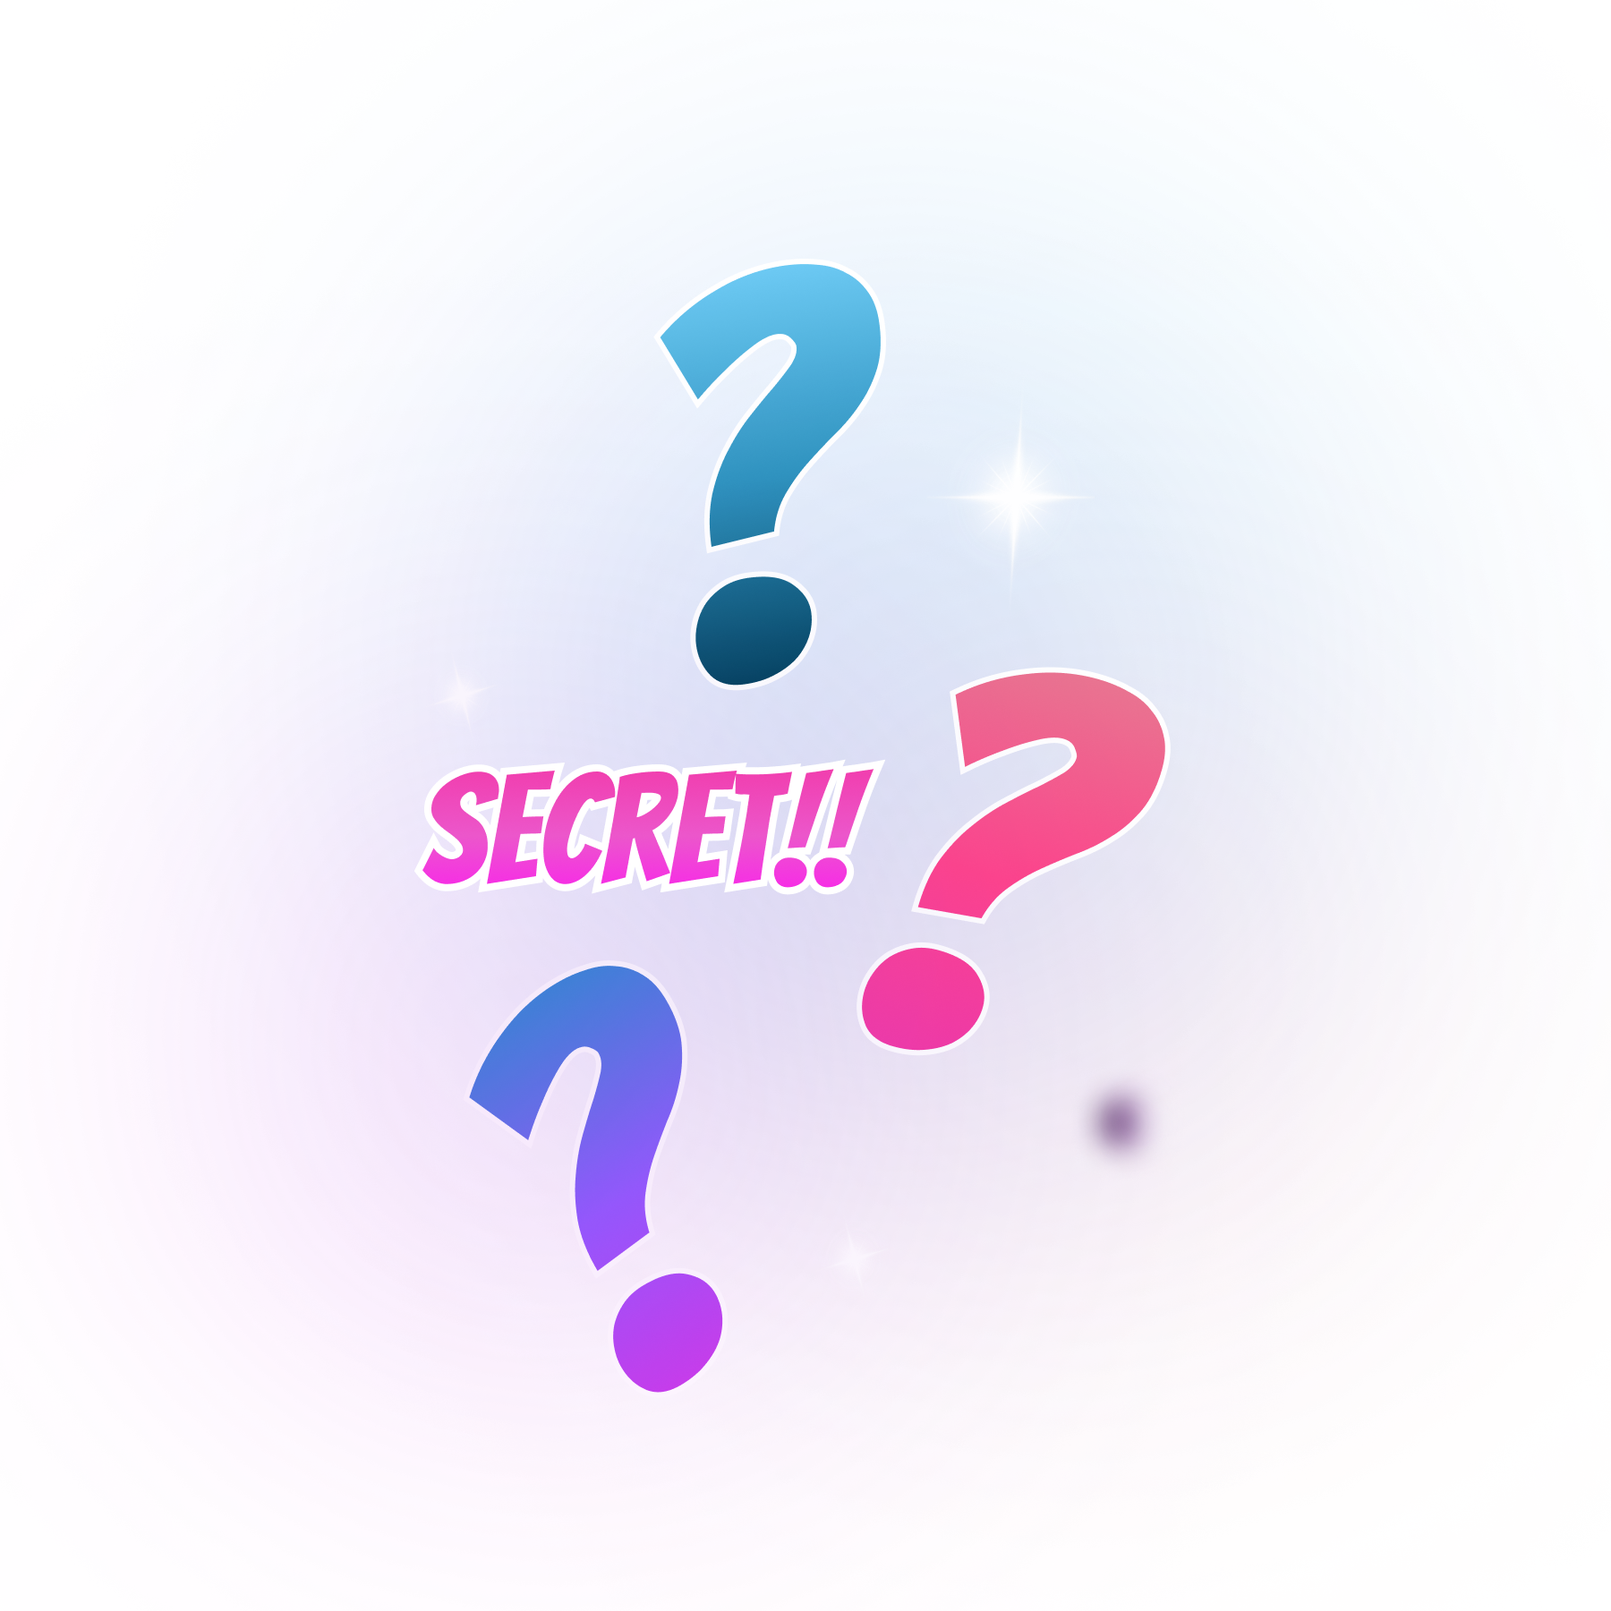
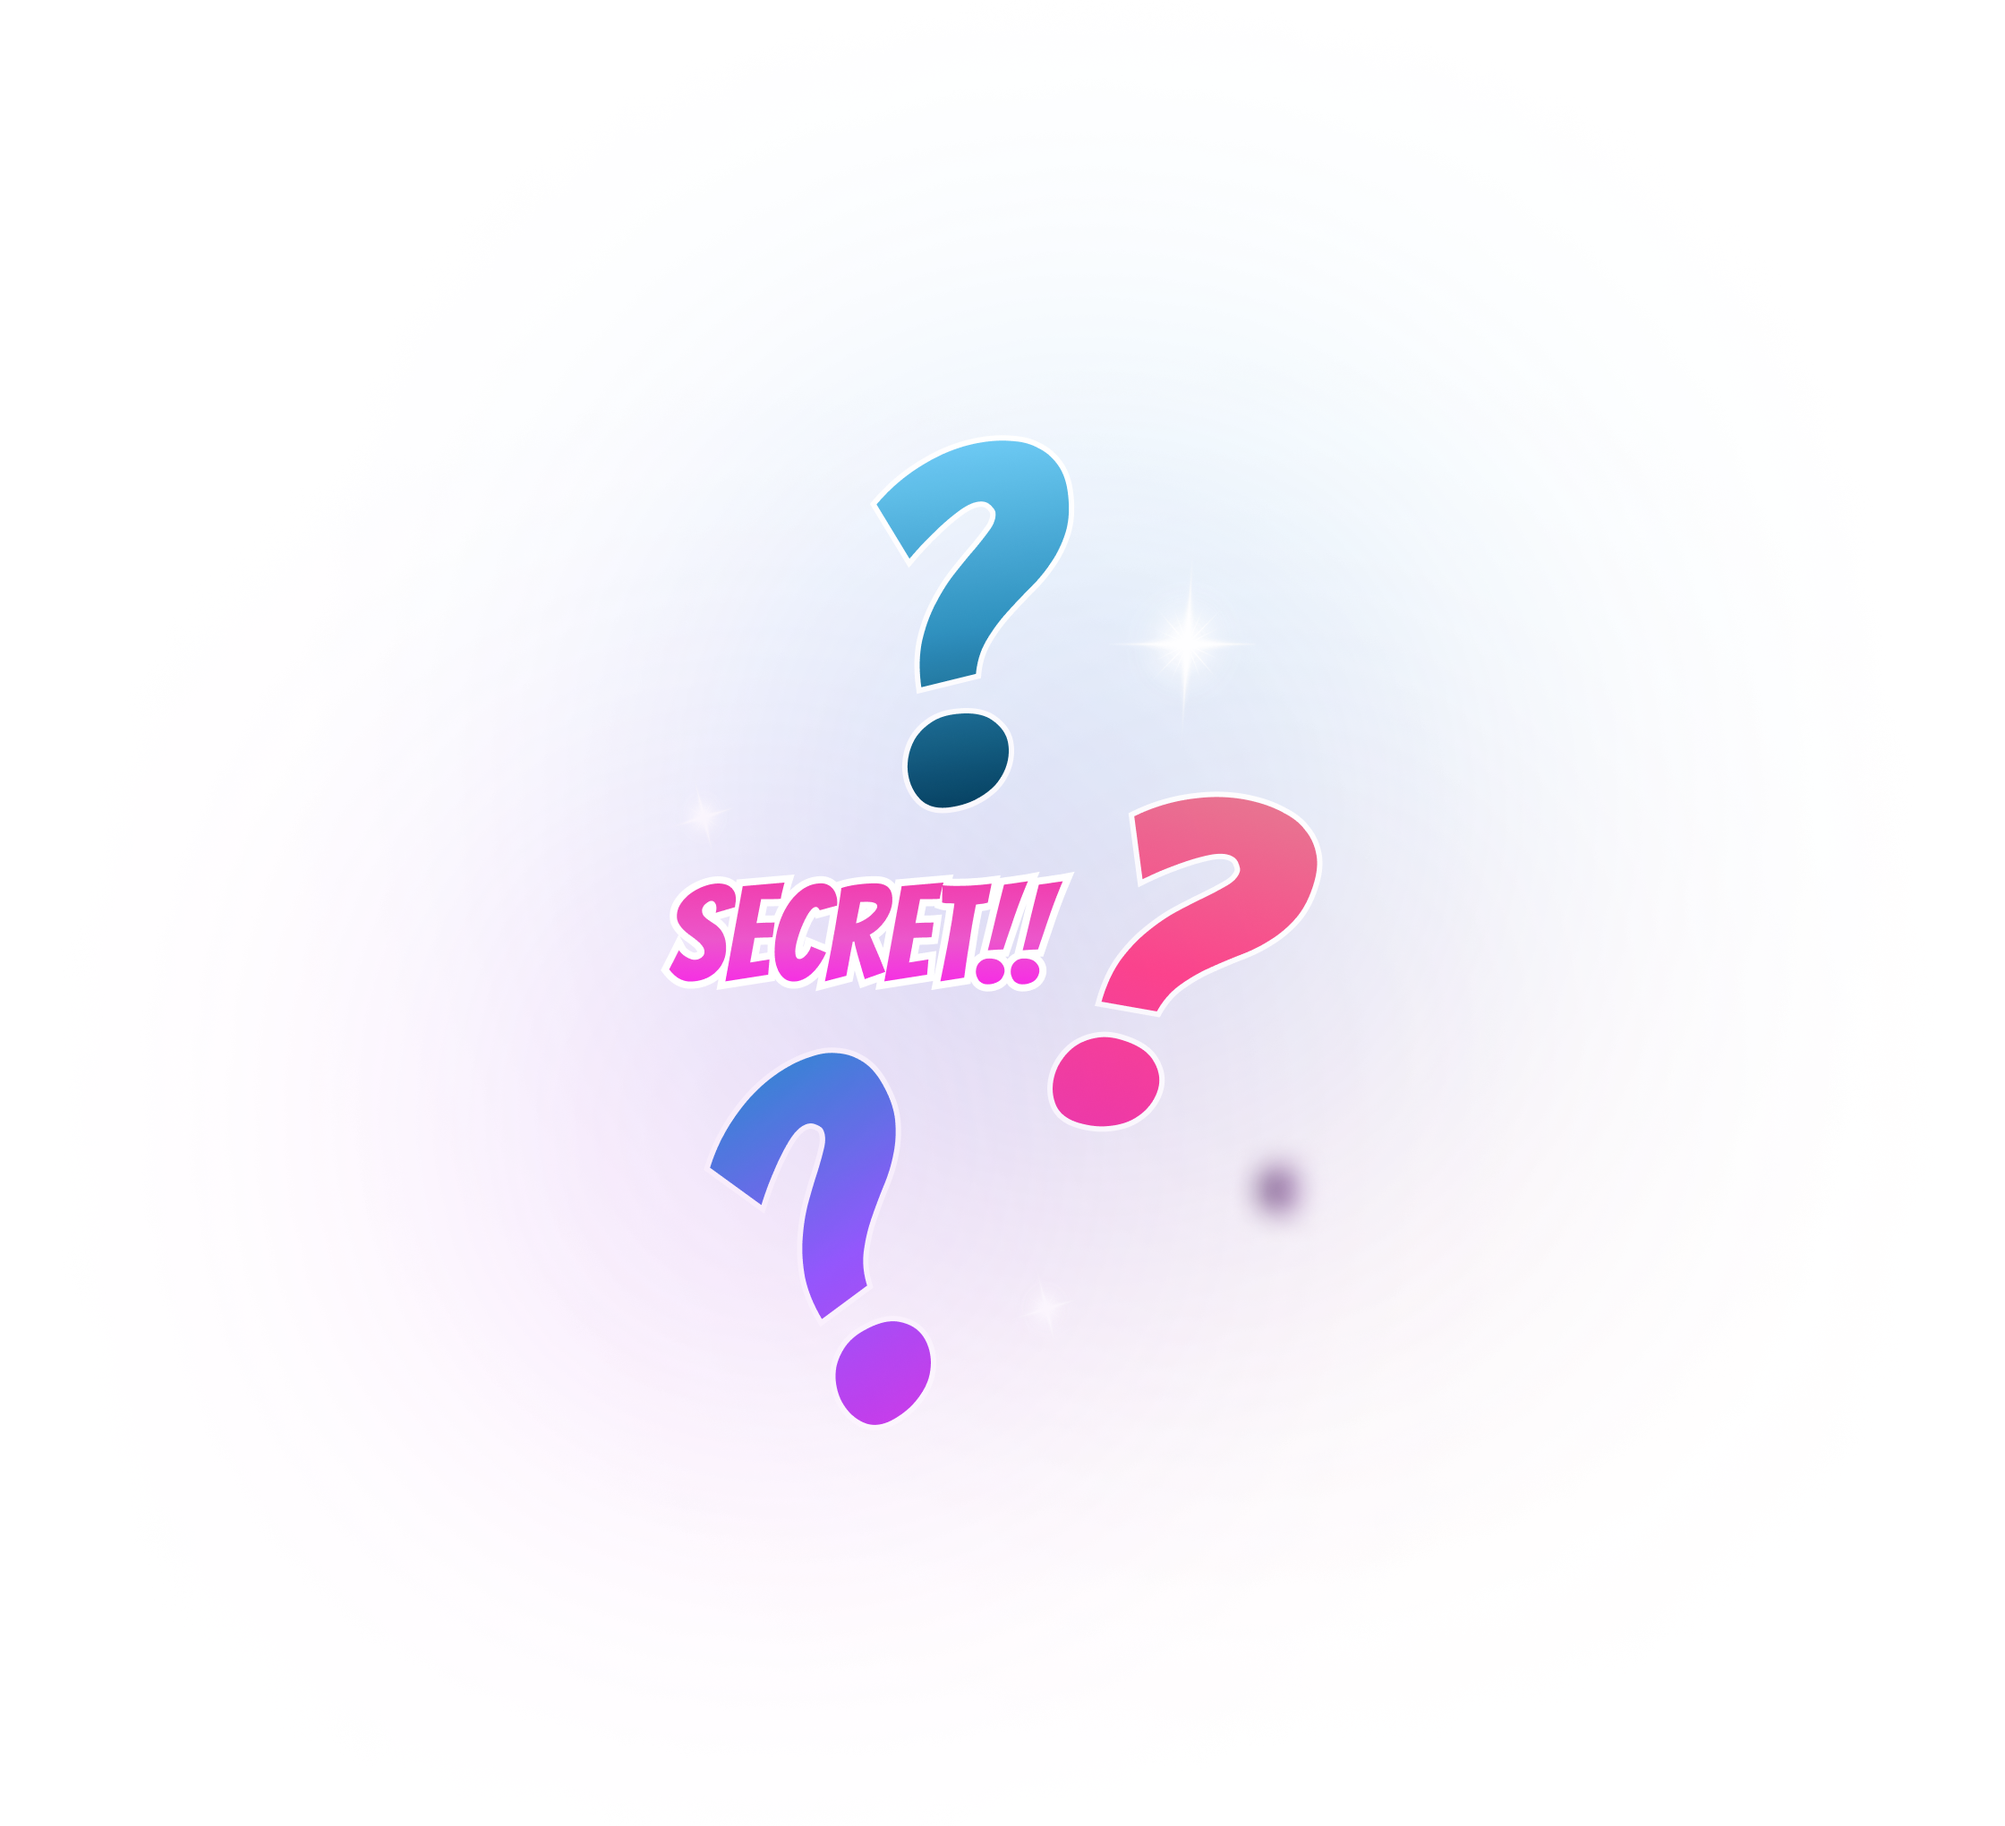
fix mobile

Changed region(s): [[0.2489, 0.1556, 0.7467, 0.8711], [0.6533, 0.6533, 0.7156, 0.7467], [0.56, 0.3422, 0.6222, 0.3733]]

diff --git a/components/landing/road-map/index.tsx b/components/landing/road-map/index.tsx
@@ -37,7 +37,7 @@ export const RoadMap = () => {
     },
     {
       number: 'Q5',
-      title: 'Secret Event',
+      title: 'Secret event',
       description:
         'Faucibus interdum posuere lorem ipsum dolor sit. Malesuada bibendum arcu vitae elementum curabitur vitae. Viverra nibh cras pulvinar mattis nunc. Commodo nulla facilisi nullam vehicula ipsum a. Feugiat in fermentum posuere urna nec tincidunt praesent semper.',
       image: 'images/road_map/image5.png',
@@ -60,13 +60,13 @@ export const RoadMap = () => {
       title: 'Secret Event',
       description:
         'Viverra nibh cras pulvinar mattis nunc. Commodo nulla facilisi',
-      image: 'images/road_map/image7.png',
     },
     {
       number: 'Q9',
       title: 'Secret Event',
       description:
         'Malesuada bibendum arcu vitae elementum curabitur vitae. Viverra',
+      image: 'images/road_map/image7.png',
     },
     {
       number: 'Q10',
@@ -123,20 +123,14 @@ export const RoadMap = () => {
           {row.map((item, index) => (
             <div className={s.row} key={index}>
               <div className={index <= stage ? s.circle : s.ring} />
-              <div
-                className={
-                  index % 2 && item.title !== 'Secret Event'
-                    ? s.item_right
-                    : s.item_left
-                }
-              >
+              <div className={index % 2 ? s.item_right : s.item_left}>
                 <div className={line_class(index)} />
                 <div className={s.text_block}>
                   <div className={s.number}>{item.number}</div>
                   <div className={s.title}>{item.title}</div>
                   <div
                     className={
-                      item.title !== 'Secret Event'
+                      item.title.toLowerCase() !== 'secret event'
                         ? s.description
                         : s.description_secret
                     }

diff --git a/components/landing/road-map/road_map.module.scss b/components/landing/road-map/road_map.module.scss
@@ -29,8 +29,7 @@
   color: #FFFFFF;
   margin: 0 100px;
   
-  @media (max-width: 768px) {
-    width: 100%;
+  @media (max-width: 1024px) {
     margin: 0 10px;
   }
 
@@ -214,6 +213,7 @@
   position: relative;
   @media (max-width: 768px) {
     width: 100%;
+    height: 40vh;
   }
 
   img {
@@ -221,7 +221,21 @@
     object-fit: contain;
     position: absolute;
     top: -280px;
-    right: -280px;
+    right: -50%;
+    @media (max-width: 1024px) {
+      top: -150px;
+    }
+    @media (max-width: 768px) {
+      width: 100%;
+      right: 0px;
+    }
+    @media (max-width: 576px) {
+      width: 200%;
+      right: -50%;
+    }
+    @media (max-width: 320px) {
+      top: -100px;
+    }
   }
 }
 
